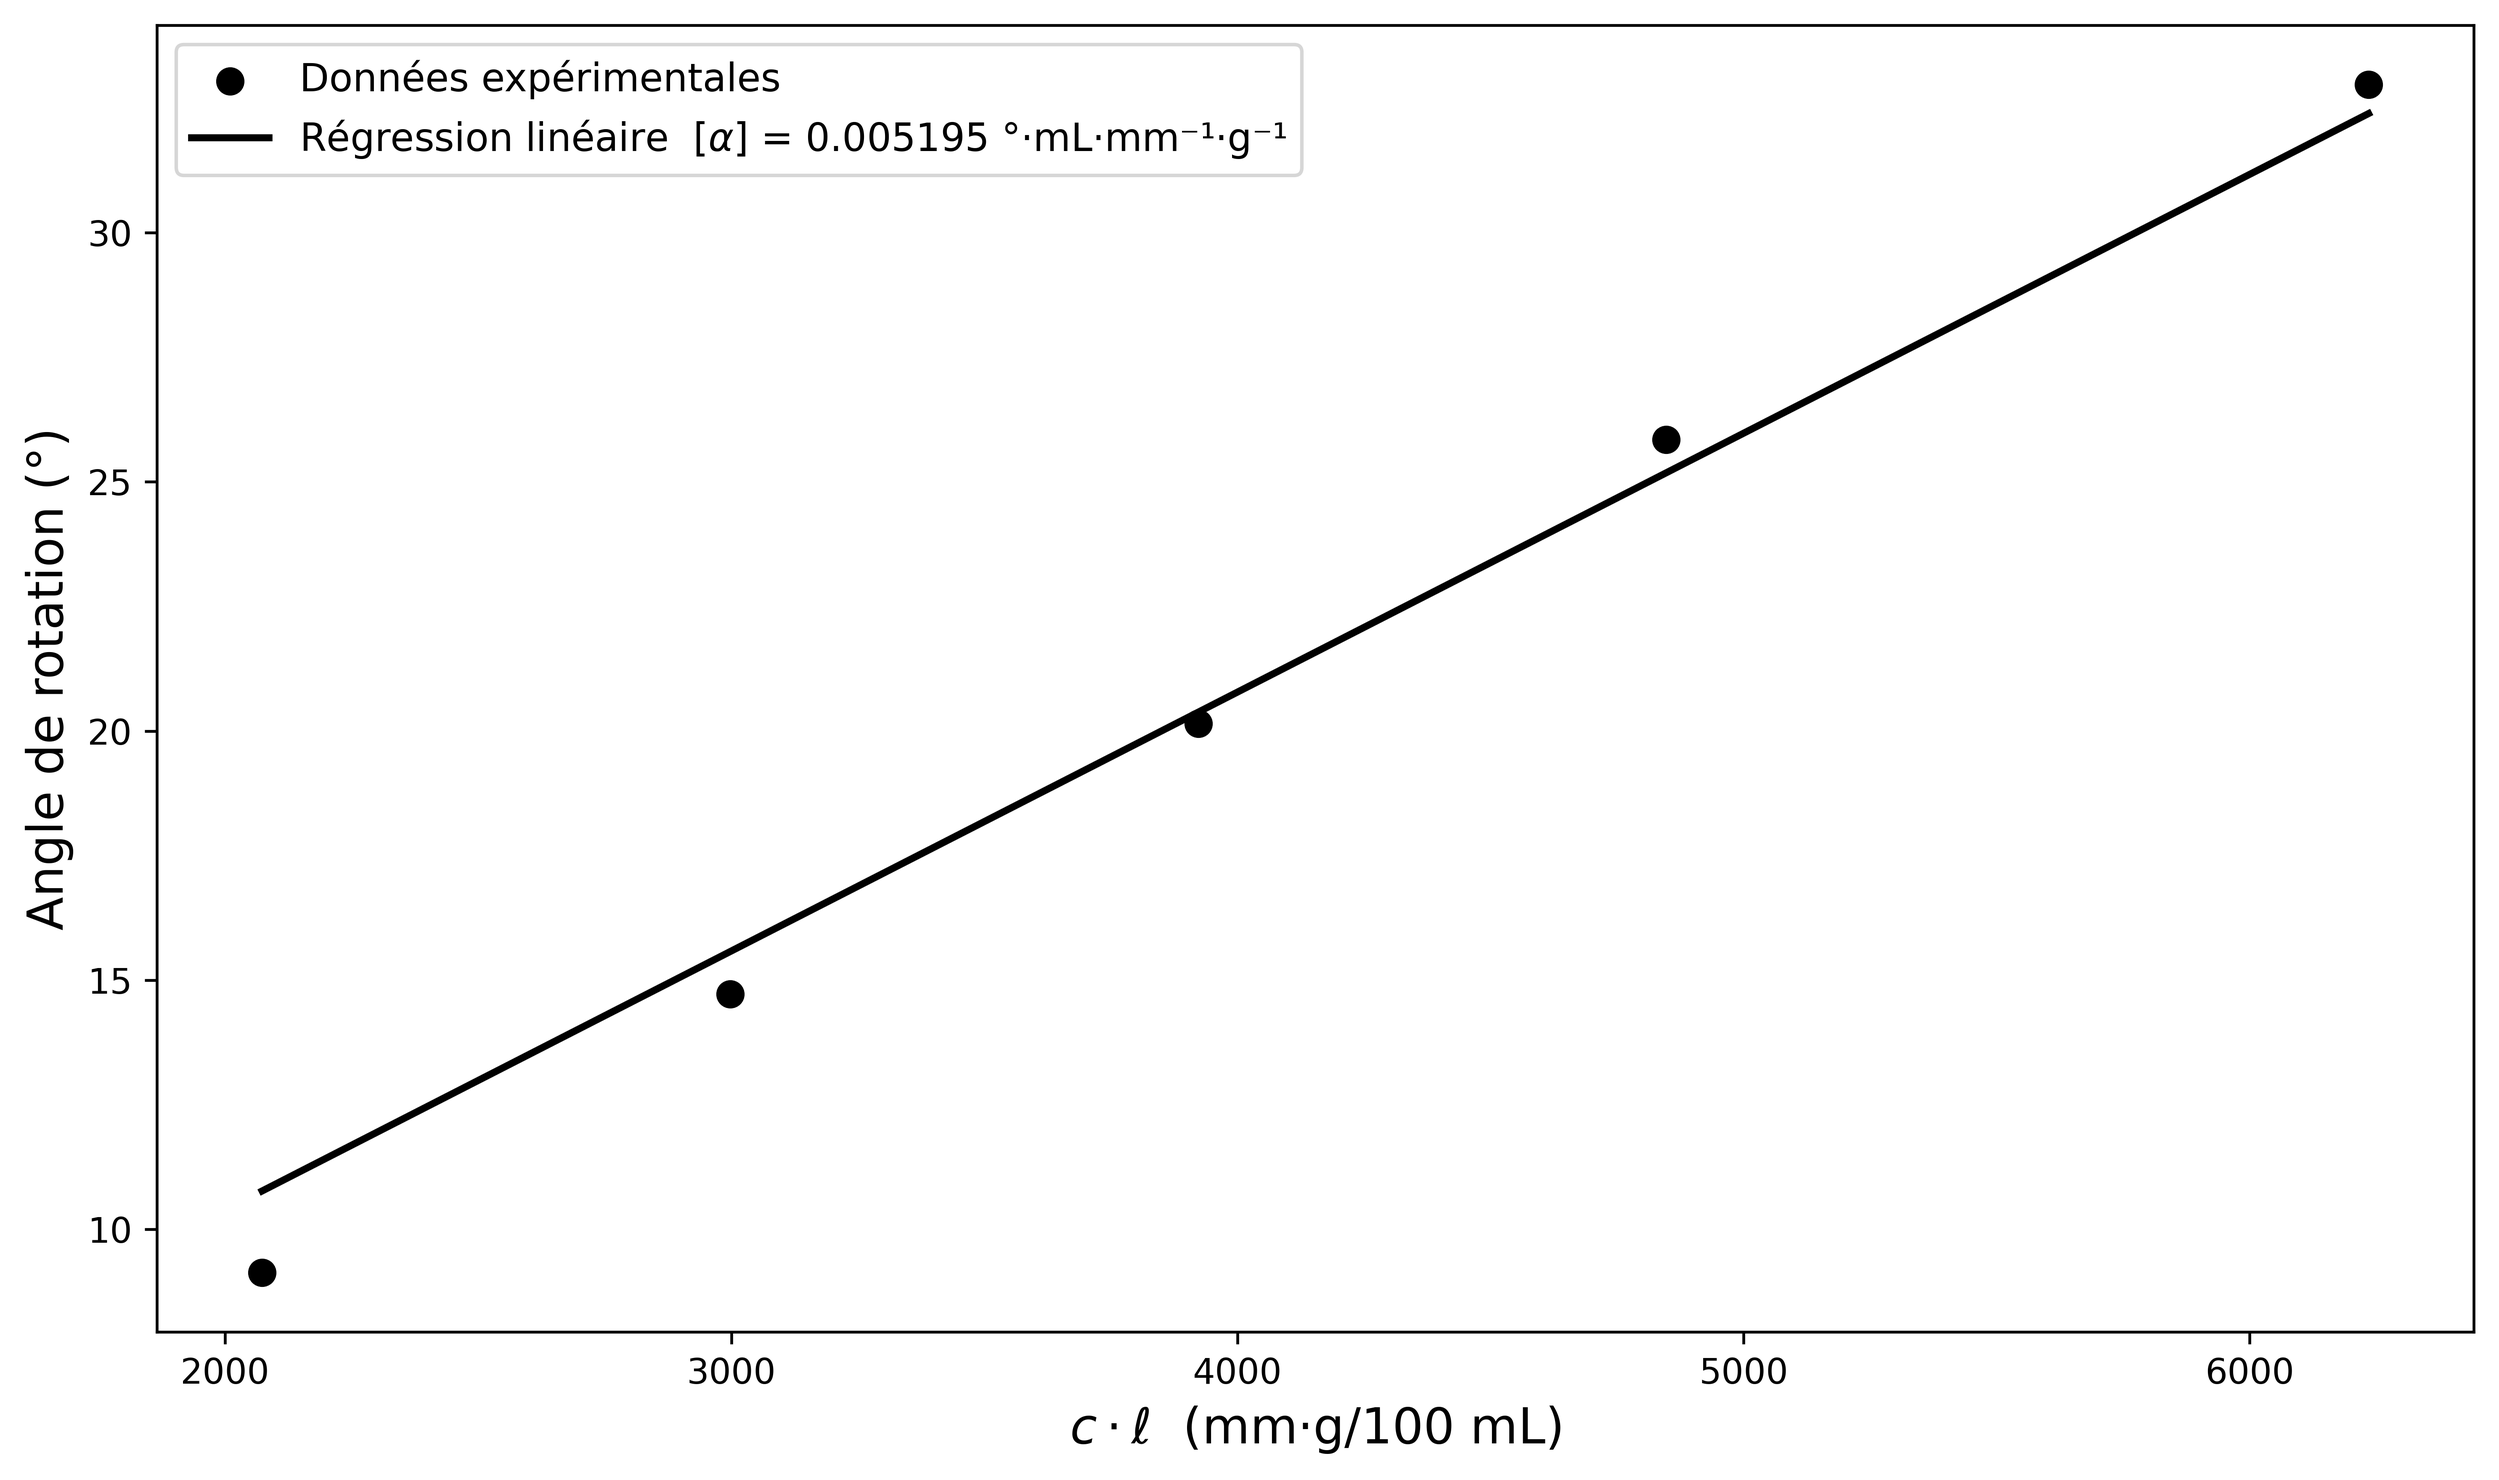
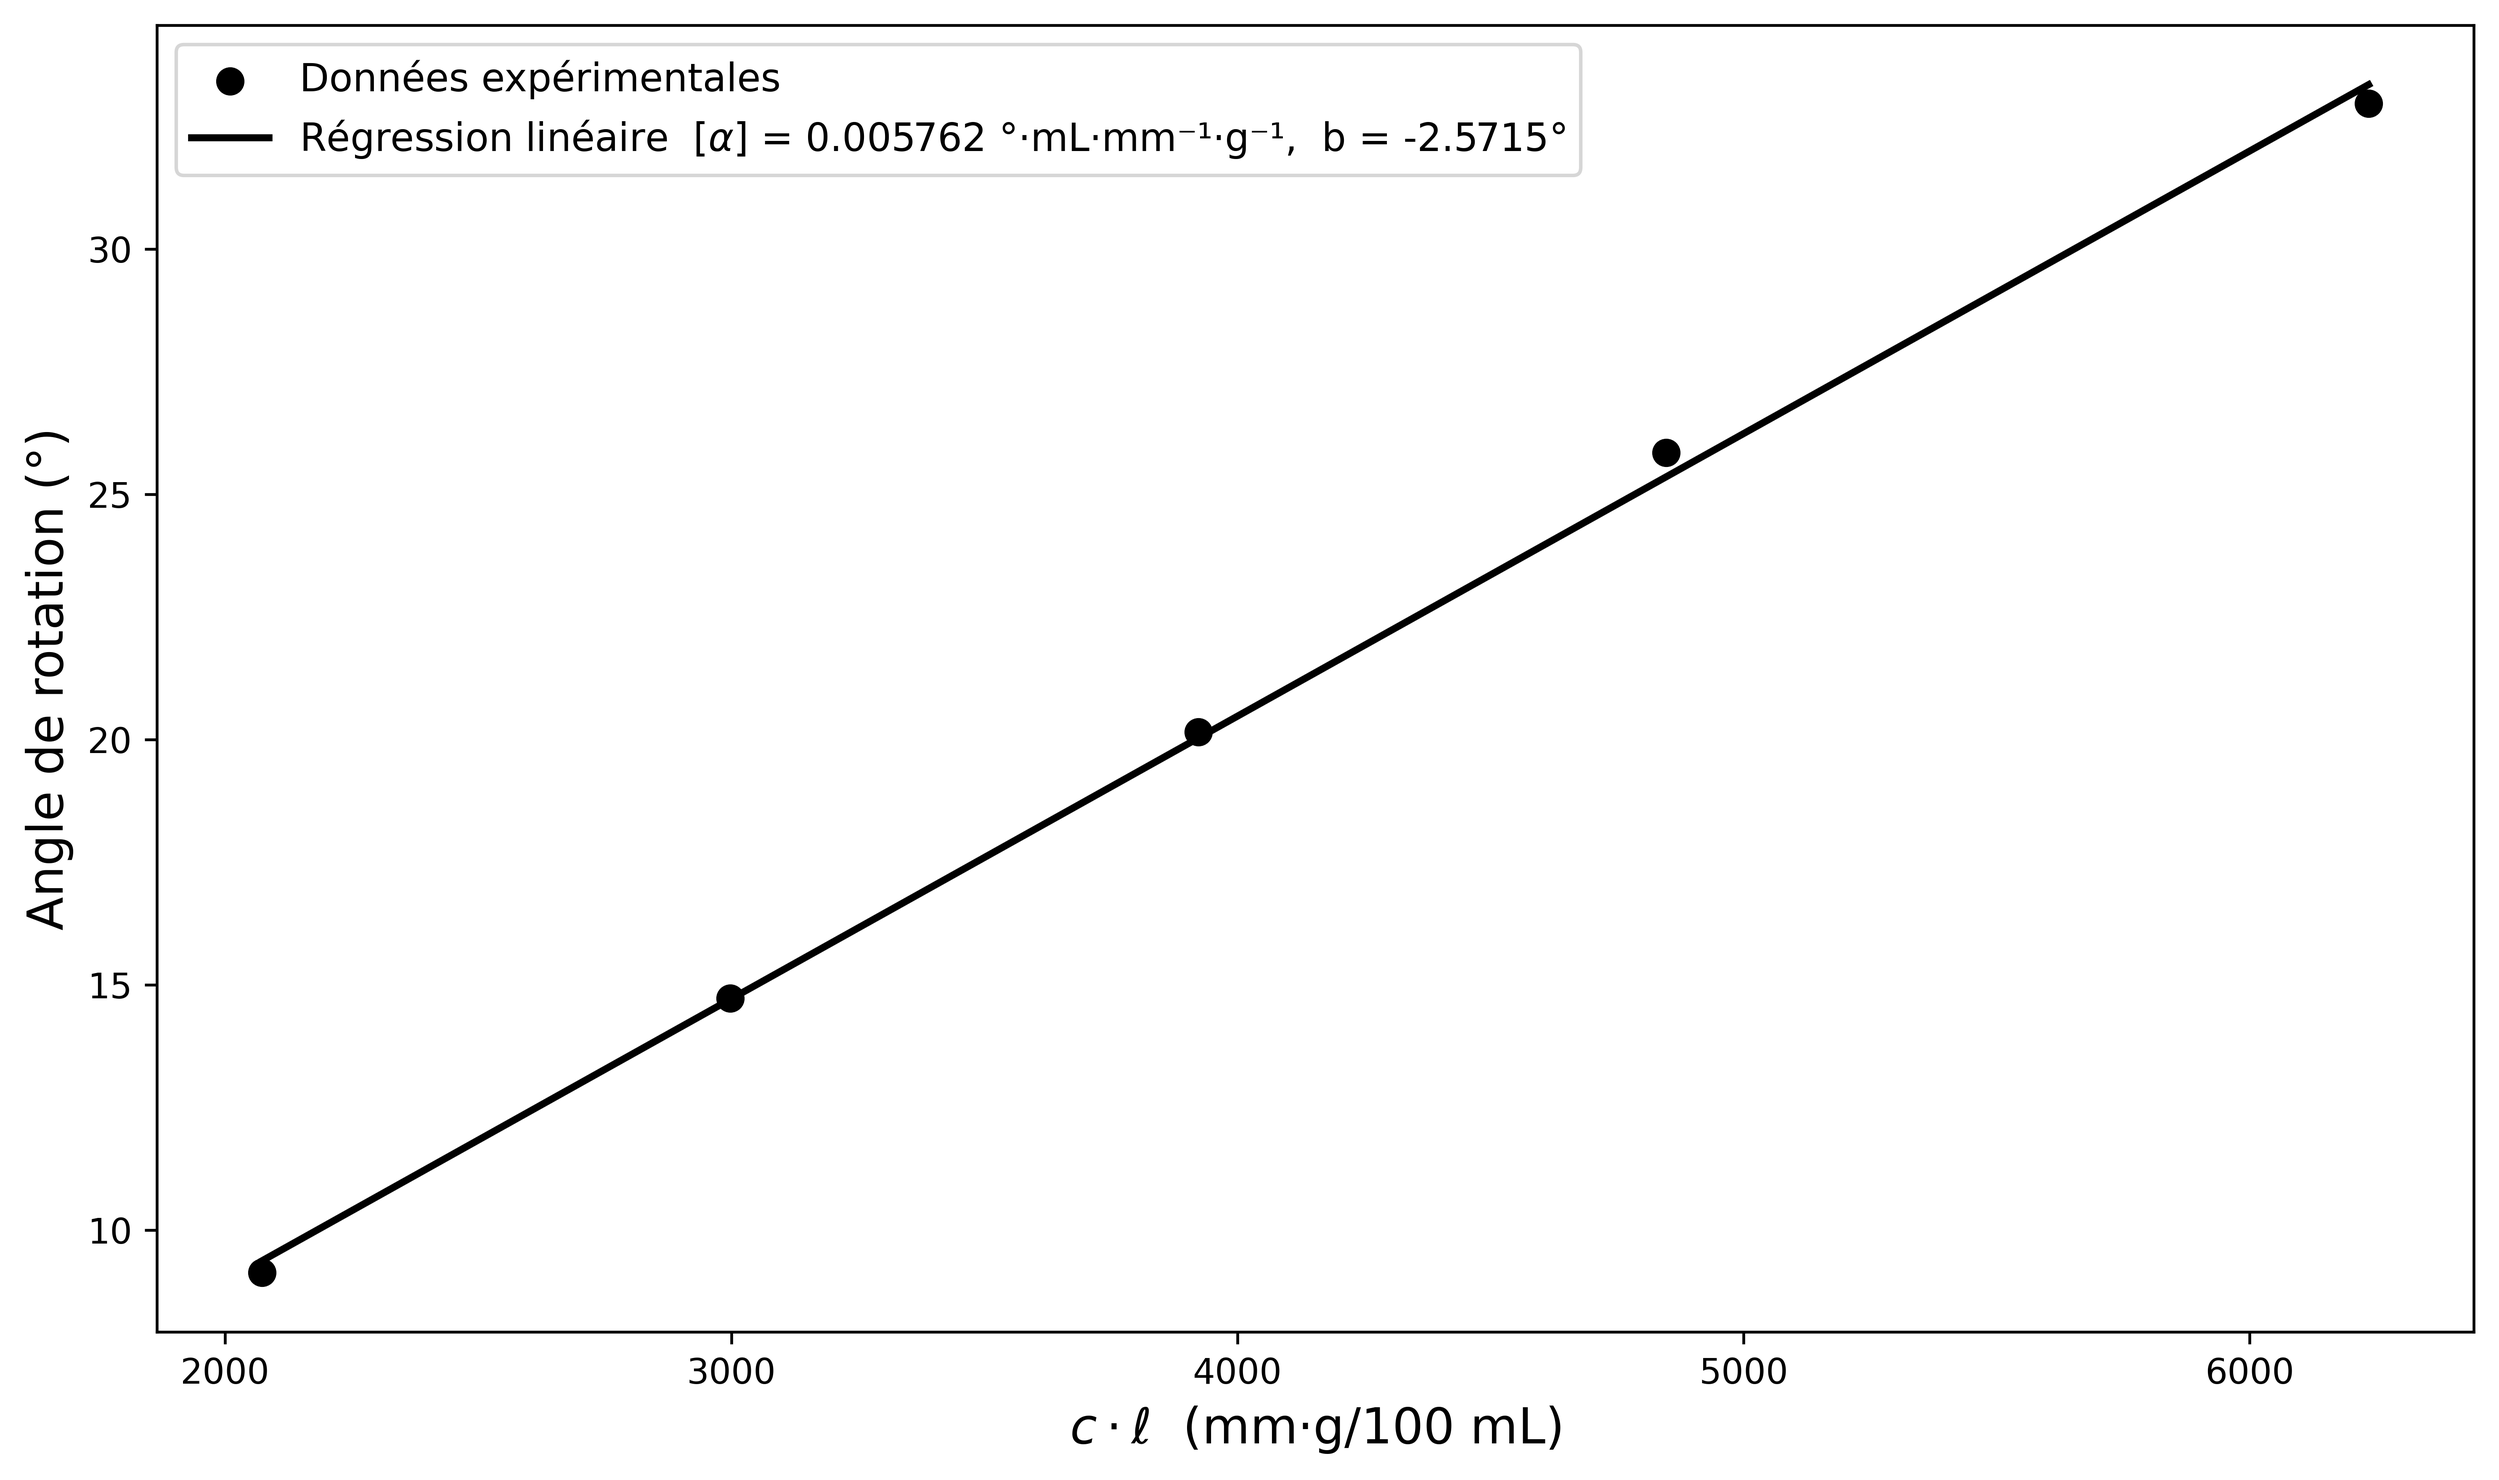
régression linéaire de type y = ax+b

diff --git a/Projet_2/glucose_moyenne_linéaire.py b/Projet_2/glucose_moyenne_linéaire.py
@@ -12,22 +12,25 @@ concentration = 45.45  # g/100 mL
 # Variable composite c·ℓ (en mm·g/100mL)
 cl = concentration * longueur
 
-def regression_lineaire(x, alpha_sp):
-    return alpha_sp * x
+def regression_lineaire(x, alpha_sp, b):
+    return alpha_sp * x + b
 
 popt, pcov = opt.curve_fit(regression_lineaire, cl, angle)
 alpha_sp       = popt[0]
+b              = popt[1]
 sigma_alpha_sp = np.sqrt(pcov[0, 0])
+sigma_b        = np.sqrt(pcov[1, 1])
 
 print(f"Pouvoir rotatoire spécifique [α] = {alpha_sp:.6f} ± {sigma_alpha_sp:.6f} °·mL·mm⁻¹·g⁻¹")
+print(f"Ordonnée à l'origine          b  = {b:.6f} ± {sigma_b:.6f} °")
 
 cl_fit    = np.linspace(min(cl), max(cl), 100)
-angle_fit = alpha_sp * cl_fit
+angle_fit = alpha_sp * cl_fit + b
 
 plt.figure(figsize=(10, 6))
 plt.scatter(cl, angle, color='black', s=50, label='Données expérimentales')
 plt.plot(cl_fit, angle_fit, color='black', linestyle='-', linewidth=2,
-         label=f'Régression linéaire  $[\\alpha]$ = {alpha_sp:.6f} °·mL·mm⁻¹·g⁻¹')
+         label=f'Régression linéaire  $[\\alpha]$ = {alpha_sp:.6f} °·mL·mm⁻¹·g⁻¹,  b = {b:.4f}°')
 plt.xlabel(r"$c \cdot \ell$  (mm·g/100 mL)", fontsize=14)
 plt.ylabel("Angle de rotation (°)", fontsize=14)
 plt.legend(fontsize=11)

diff --git a/Projet_2/fructose_moyenne_linéaire.py b/Projet_2/fructose_moyenne_linéaire.py
@@ -12,22 +12,25 @@ concentration = 42.8  # g/100 mL
 # Variable composite c·ℓ (en mm·g/100mL)
 cl = concentration * longueur
 
-def regression_lineaire(x, alpha_sp):
-    return alpha_sp * x
+def regression_lineaire(x, alpha_sp, b):
+    return alpha_sp * x + b
 
 popt, pcov = opt.curve_fit(regression_lineaire, cl, angle)
 alpha_sp       = popt[0]
+b              = popt[1]
 sigma_alpha_sp = np.sqrt(pcov[0, 0])
+sigma_b        = np.sqrt(pcov[1, 1])
 
 print(f"Pouvoir rotatoire spécifique [α] = {alpha_sp:.6f} ± {sigma_alpha_sp:.6f} °·mL·mm⁻¹·g⁻¹")
+print(f"Ordonnée à l'origine          b  = {b:.6f} ± {sigma_b:.6f} °")
 
 cl_fit    = np.linspace(min(cl), max(cl), 100)
-angle_fit = alpha_sp * cl_fit
+angle_fit = alpha_sp * cl_fit + b
 
 plt.figure(figsize=(10, 6))
 plt.scatter(cl, angle, color='black', s=50, label='Données expérimentales')
 plt.plot(cl_fit, angle_fit, color='black', linestyle='-', linewidth=2,
-         label=f'Régression linéaire  $[\\alpha]$ = {alpha_sp:.6f} °·mL·mm⁻¹·g⁻¹')
+         label=f'Régression linéaire  $[\\alpha]$ = {alpha_sp:.6f} °·mL·mm⁻¹·g⁻¹,  b = {b:.4f}°')
 plt.xlabel(r"$c \cdot \ell$  (mm·g/100 mL)", fontsize=14)
 plt.ylabel("Angle de rotation (°)", fontsize=14)
 plt.legend(fontsize=11)

diff --git a/Projet_2/mélange_comparaison.py b/Projet_2/mélange_comparaison.py
@@ -25,7 +25,7 @@ angles = angles_totaux - theta_zero
 def sinusoidal(x, A, B, phi, C):
     return A * np.sin(np.deg2rad(B * x + phi)) + C
 
-vec_col = ["#B4A8C9", "#9982BB"]
+vec_col = ["#8861CB", "#3D275F"]
 
 fig, ax = plt.subplots(figsize=(13, 7))
 
@@ -101,8 +101,8 @@ for i, col in enumerate(longueur):
 
 ax.set_xlabel("Angle (degrés)", fontsize=16)
 ax.set_ylabel("Intensité normalisée", fontsize=16)
-ax.set_xlim(-180, 180)
-ax.set_ylim(-0.5, 1.15)
+ax.set_xlim(-90, 90)
+ax.set_ylim(-0.05, 1.05)
 
 ax.legend(fontsize=12, loc='upper right', framealpha=0.92)
 
